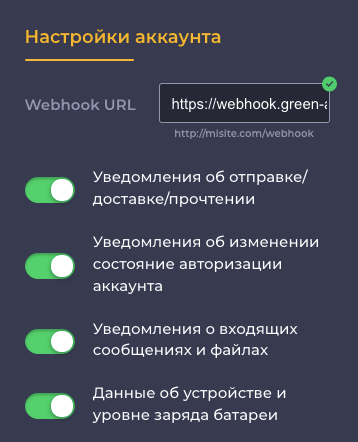
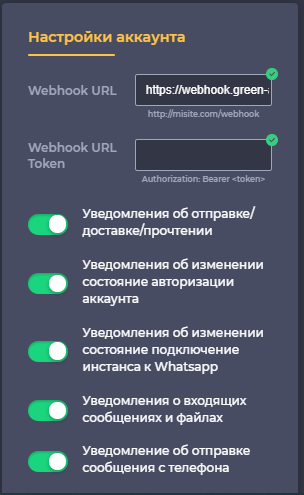
Добавлена настройка Webhook URL Token. Исправлены некоторые ошибки. Added Webhook URL Token setting. Fixed some typos.

diff --git a/ru/docs/api/receiving/technology-webhook-endpoint.md b/ru/docs/api/receiving/technology-webhook-endpoint.md
@@ -10,6 +10,7 @@
 
 - опубликовать IP-адрес в Интернете
 - реализовать логику обработки входящих уведомлений на указанный IP-адрес
+- если тебуется для сервера, то установить Webhook URL Token
 
 ### Публичный IP-адрес
 
@@ -25,19 +26,20 @@
 
 ### Настройка методом [SetSettings](../account/SetSettings.md) {#SetSettings}
 
-Для настройки получения входящих уведомлений по технологии Webhook Endpoint требуется указать в качестве параметра `webhookUrl` значение вашего IP-адреса или вашего доменного имени. Например:
+Для настройки получения входящих уведомлений по технологии Webhook Endpoint требуется указать в качестве параметра `webhookUrl` значение вашего IP-адреса или вашего доменного имени, и, если необходимо, `webhookUrlToken` для доступа на ваш сервер. Например:
 
 ```
 https://84.211.100.201:3000/green-api/webhook/
 ```
 
-Также требуется указать какие виды уведомлений необходимо получать. Для включения входящих уведомлений по видам, а также для указания параметра `webhookUrl` воспользуйтесь методом [SetSettings](../account/SetSettings.md).
+Также требуется указать какие виды уведомлений необходимо получать. Для включения входящих уведомлений по видам, а также для указания параметра `webhookUrl` и `webhookUrlToken` воспользуйтесь методом [SetSettings](../account/SetSettings.md).
 
 #### Пример тела запроса метода [SetSettings](../account/SetSettings.md)
 
 ```json
 {
     "webhookUrl": "https://84.211.100.201:3000/green-api/webhook/",
+    "webhookUrlToken": "dscnsdiuafkascndjhsalbcvatsvcbasn23rfregvfdg54tds",
     "outgoingWebhook": "yes",
     "stateWebhook": "yes",
     "incomingWebhook": "yes",
@@ -47,7 +49,7 @@ https://84.211.100.201:3000/green-api/webhook/
 
 ### Настройка в личном кабинете {#cabinet}
 
-Настройку получения входящих уведомлений можно также выполнить интерактивно. Для этого перейдите в [Личный кабинет](https://cabinet.green-api.com) и выберите требуемый аккаунт. Если аккаунт авторизован, то будут отображены настройки для получения входящих уведомлений см. рис. Укажите значение параметра `webhookUrl`, а также переключатели по видам уведомлений. Если аккаунт не авторизован и настройки уведомлений не отображаются, обратитесь к разделу [Перед началом работы](../../before-start.md#qr).
+Настройку получения входящих уведомлений можно также выполнить интерактивно. Для этого перейдите в [Личный кабинет](https://cabinet.green-api.com) и выберите требуемый аккаунт. Если аккаунт авторизован, то будут отображены настройки для получения входящих уведомлений см. рис. Укажите значение параметра `webhookUrl`, а также переключатели по видам уведомлений и, если необходима авторизация на вашем вебхук сервере, Webhook URL Token. Если аккаунт не авторизован и настройки уведомлений не отображаются, обратитесь к разделу [Перед началом работы](../../before-start.md#qr).
 
 ![Настройки входящих уведомлений](../../assets/technology-webhook-endpoint.png "Настройки входящих уведомлений")
 

diff --git a/ru/docs/api/account/SetSettings.md b/ru/docs/api/account/SetSettings.md
@@ -21,6 +21,7 @@ POST https://api.green-api.com/waInstance{{idInstance}}/SetSettings/{{apiTokenIn
 ----- | ----- | ----- | -----
 `countryInstance` | **string** | Нет | Код страны аккаунта по стандарту [ISO 3166-2](https://ru.wikipedia.org/wiki/ISO_3166-2)
 `webhookUrl` | **string** | Нет | URL для отправки уведомлений. Если требуется отключить получение уведомлений, то укажите пустую строку
+`webhookUrlToken` | **string** | Нет | Токен для доступа к вашему серверу уведомлений, если не требуется, то укажите пустую строку 
 `delaySendMessagesMilliseconds` | **integer** | Нет | [Интервал отправки сообщений](../send-messages-delay.md) в миллисекундах. Минимальное значение 500 мсек
 `markIncomingMessagesReaded` | **string** | Нет | Отмечать входящие сообщения прочитанными или нет, возможные значения: `yes`, `no`. Игнорируется, если markIncomingMessagesReadedOnReply в значении 'yes'.
 `markIncomingMessagesReadedOnReply` | **string** | Нет | Отмечать входящие сообщения прочитанными при отправке сообщения в чат через API, возможные значения: `yes`, `no`. Если в значении 'yes', то настройка markIncomingMessagesReaded игнорируется.
@@ -40,6 +41,7 @@ POST https://api.green-api.com/waInstance{{idInstance}}/SetSettings/{{apiTokenIn
 {
     "countryInstance": "ru",
     "webhookUrl": "https://mysite.com/webhook/green-api/",
+    "webhookUrlToken": "",
     "delaySendMessagesMilliseconds": 1000,
     "markIncomingMessagesReaded": "no",
     "markIncomingMessagesReadedOnReply": "no",

diff --git a/ru/docs/api/account/GetSettings.md b/ru/docs/api/account/GetSettings.md
@@ -21,6 +21,7 @@ GET https://api.green-api.com/waInstance{{idInstance}}/GetSettings/{{apiTokenIns
 `countryInstance` | **string** | Код страны аккаунта по стандарту [ISO 3166-2](https://ru.wikipedia.org/wiki/ISO_3166-2)
 `typeAccount` | **string** | Тип аккаунта, возможные значения: `trial`, `production`, `vip`
 `webhookUrl` | **string** | URL для получения входящих уведомлений
+`webhookUrlToken` | **string** | Токен для подключения к вашему вебхук серверу
 `delaySendMessagesMilliseconds` | **integer** | [Интервал отправки сообщений](../send-messages-delay.md) в миллисекундах
 `markIncomingMessagesReaded` | **string** | Отмечать входящие сообщения прочитанными или нет, возможные значения: `yes`, `no`. Игнорируется, если markIncomingMessagesReadedOnReply в значении 'yes'.
 `markIncomingMessagesReadedOnReply` | **string** | Отмечать входящие сообщения прочитанными при отправке сообщения в чат через API, возможные значения: `yes`, `no`. Если в значении 'yes', то настройка markIncomingMessagesReaded игнорируется.
@@ -42,6 +43,7 @@ GET https://api.green-api.com/waInstance{{idInstance}}/GetSettings/{{apiTokenIns
     "countryInstance": "ru",
     "typeAccount": "vip",
     "webhookUrl": "https://mysite.com/webhook/green-api/",
+    "webhookUrlToken": "",
     "delaySendMessagesMilliseconds": 3000,
     "markIncomingMessagesReaded": "yes",
     "markIncomingMessagesReadedOnReply": "no",

diff --git a/ru/docs/api/service/GetAvatar.md b/ru/docs/api/service/GetAvatar.md
@@ -19,6 +19,8 @@ POST https://api.green-api.com/waInstance{{idInstance}}/GetAvatar/{{apiTokenInst
 
 ### Пример тела запроса {#request-example-body}
 
+Для получения своего аватара - укажите в chatId свой номер ("{ваш номер}@c.us").
+
 Получить аватар корреспондента:
 ```json
 {
